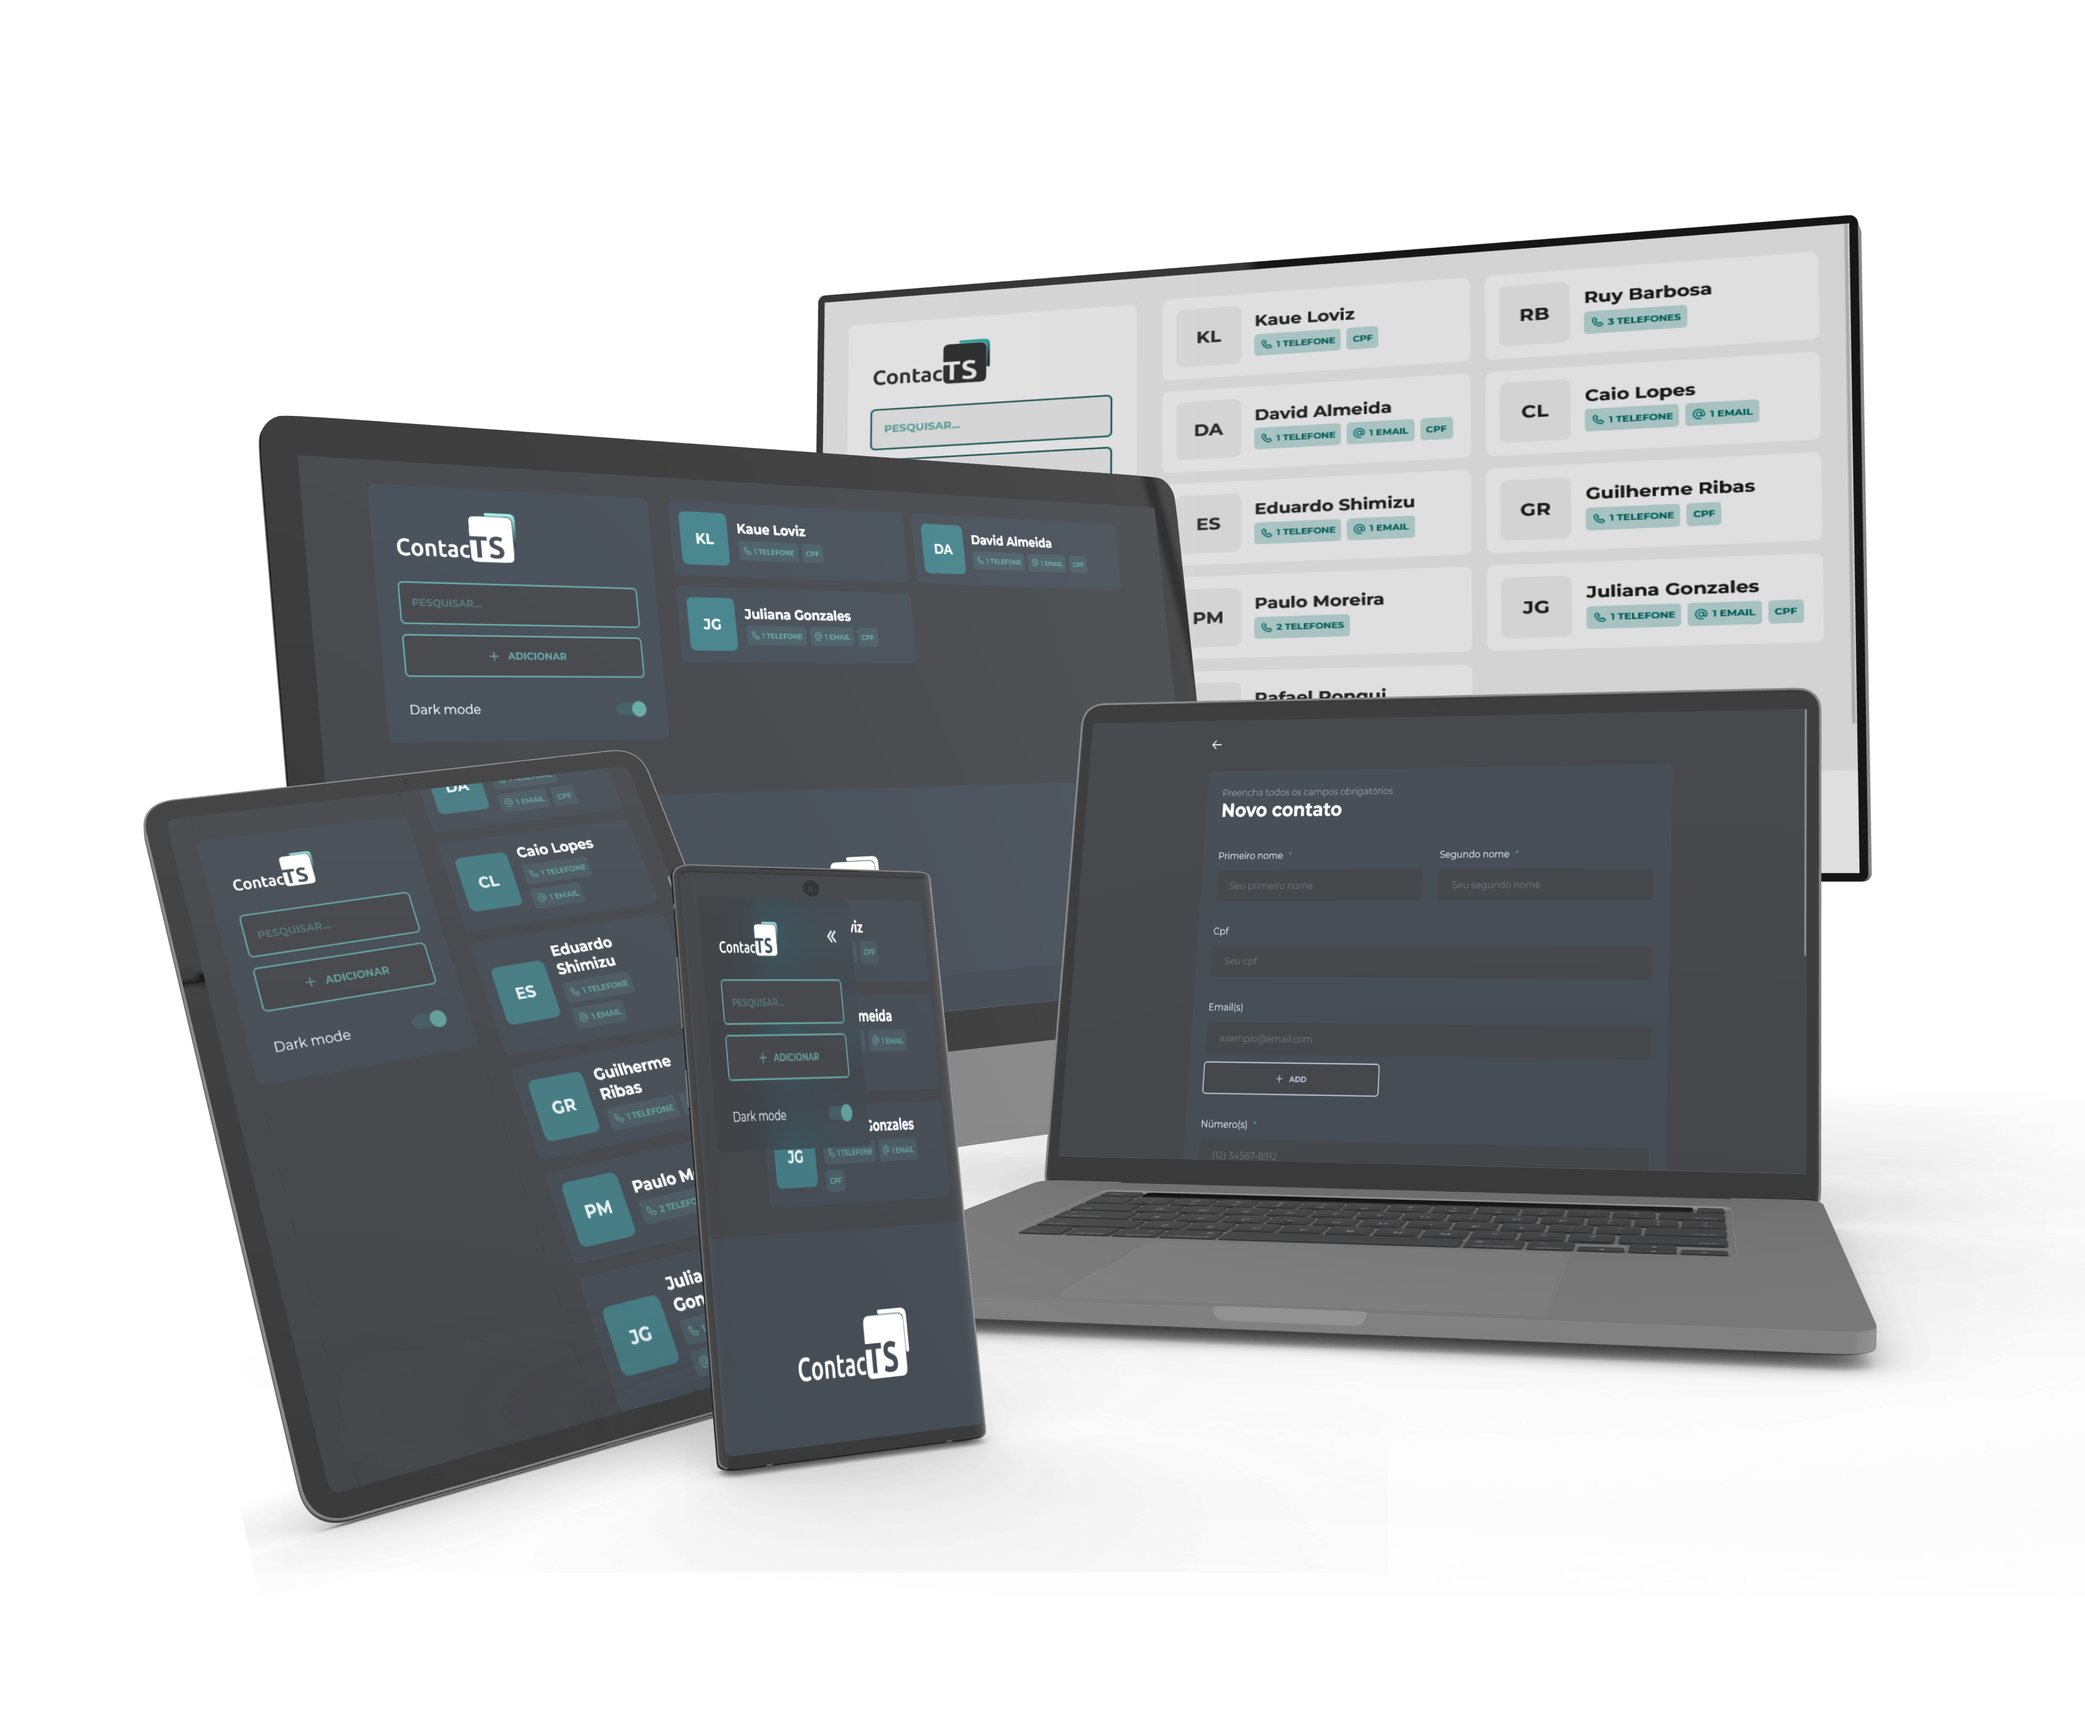
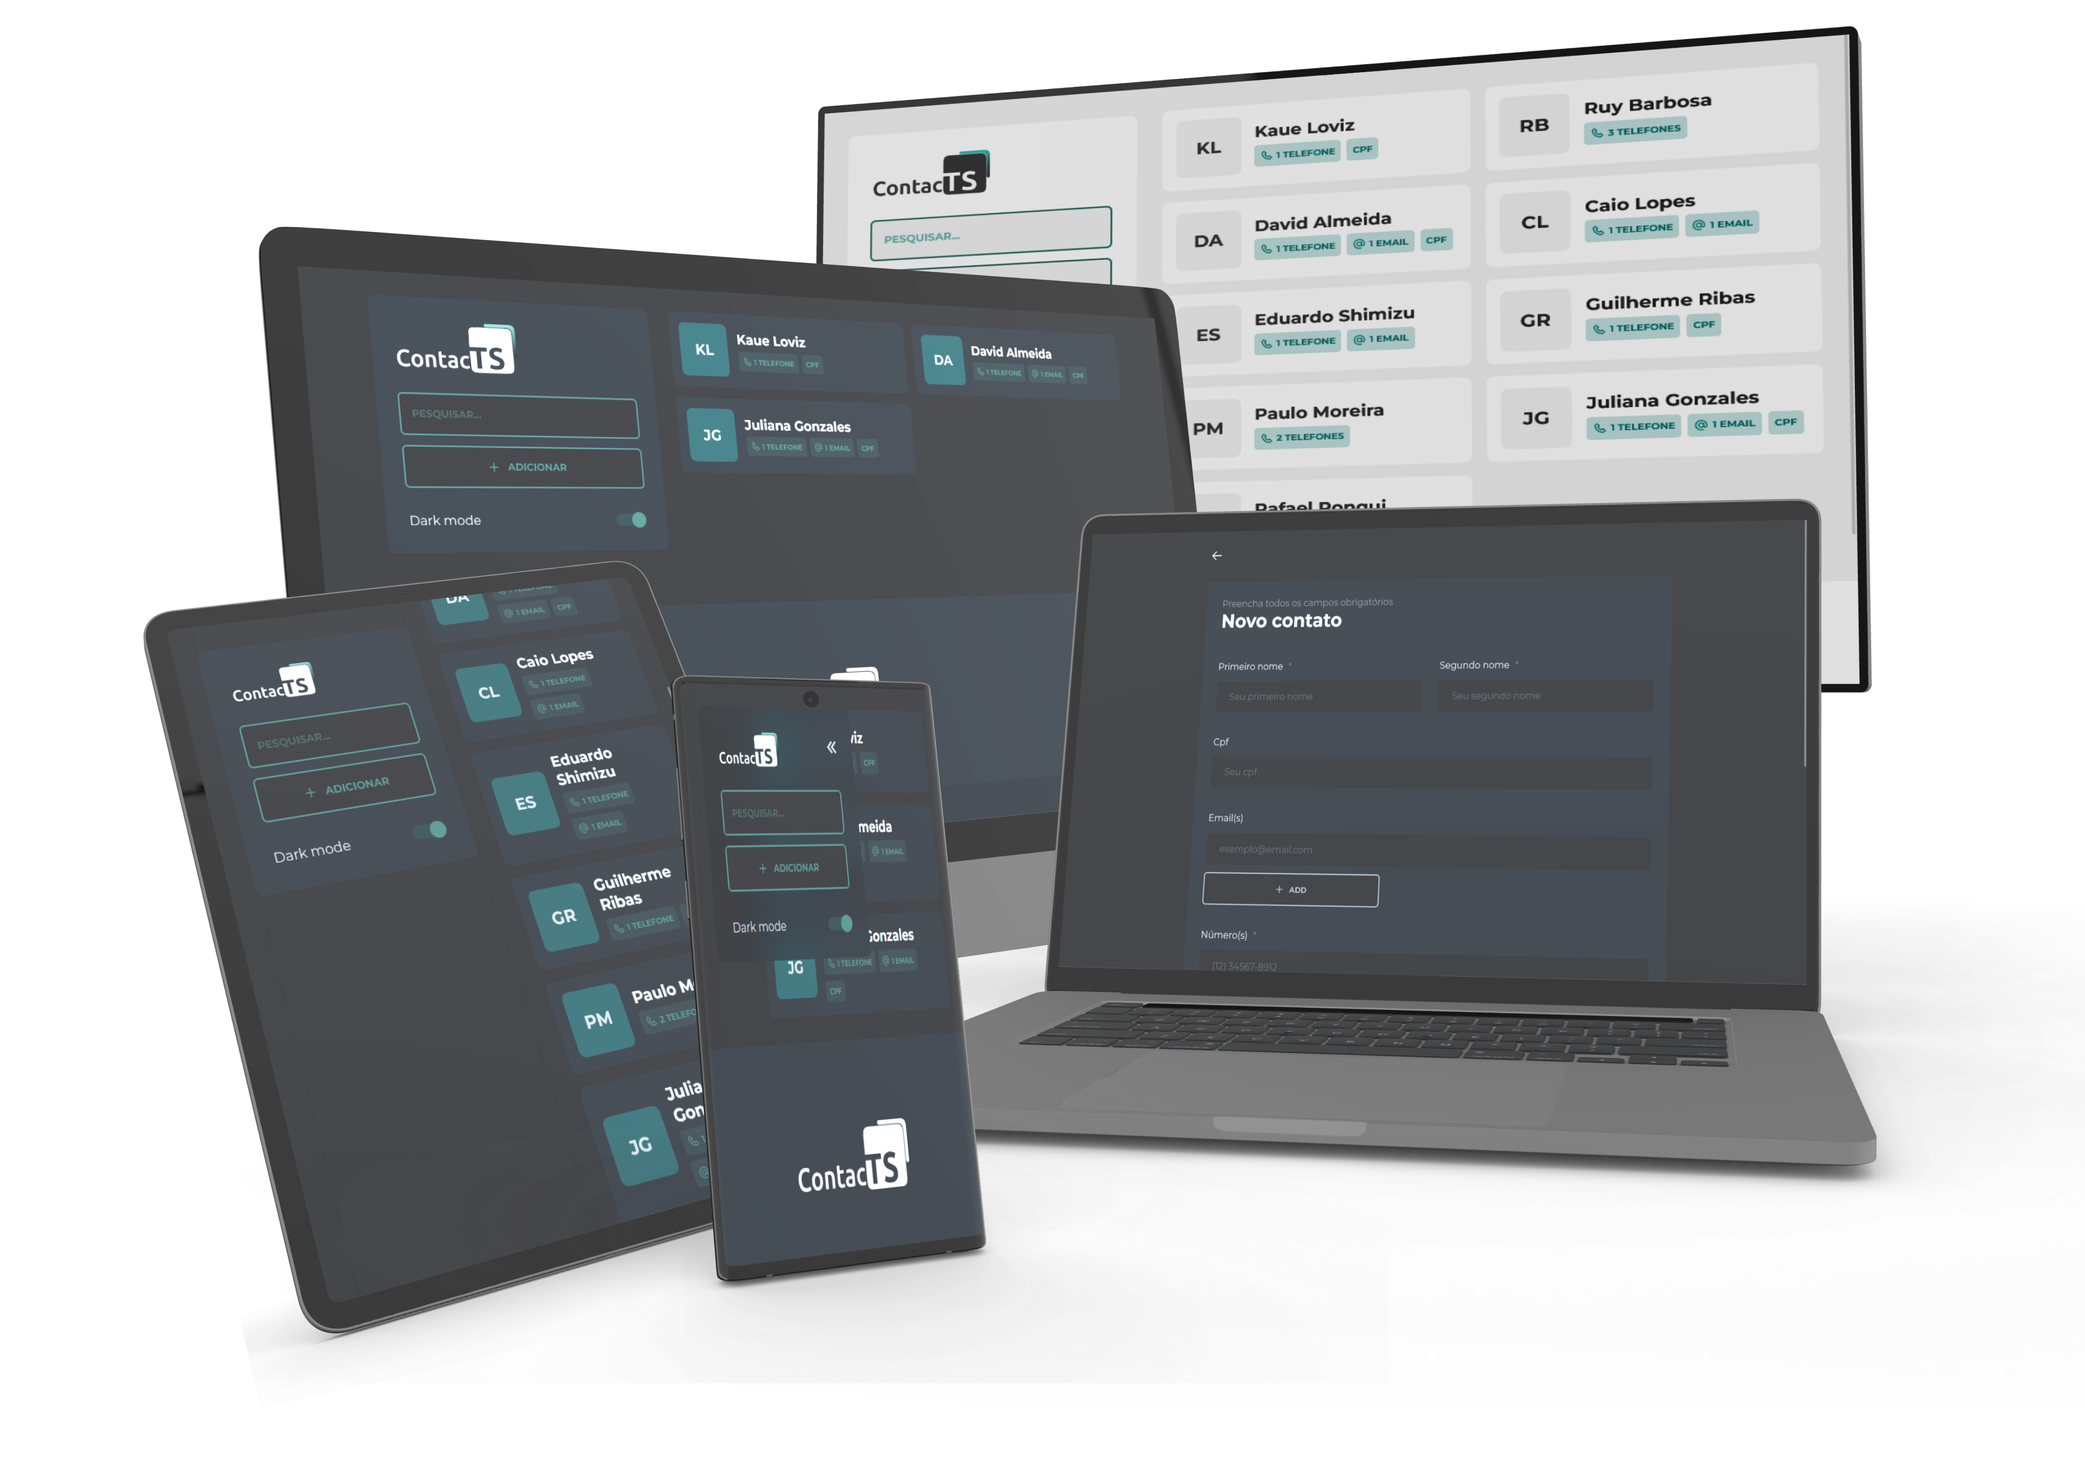
:memo: Readme adjusted

diff --git a/README.md b/README.md
@@ -12,8 +12,6 @@
   <a href="#-Como-rodar">Como rodar</a>
 </p>
 
-<br>
-
 <p align="center">
     <img alt="License" src="https://img.shields.io/static/v1?label=license&message=MIT&color=417D7A&labelColor=1A3C40">
     <img alt="Repository size" src="https://img.shields.io/github/repo-size/Almeida154/contacTS?color=417D7A&labelColor=1A3C40">
@@ -24,8 +22,6 @@
 <p align="center">
   <img alt="ContacTS" src=".github/contacts-mockup.png" width="100%">
 </p>
-
-<br>
 
 ### 🚀 Tecnologias
 
